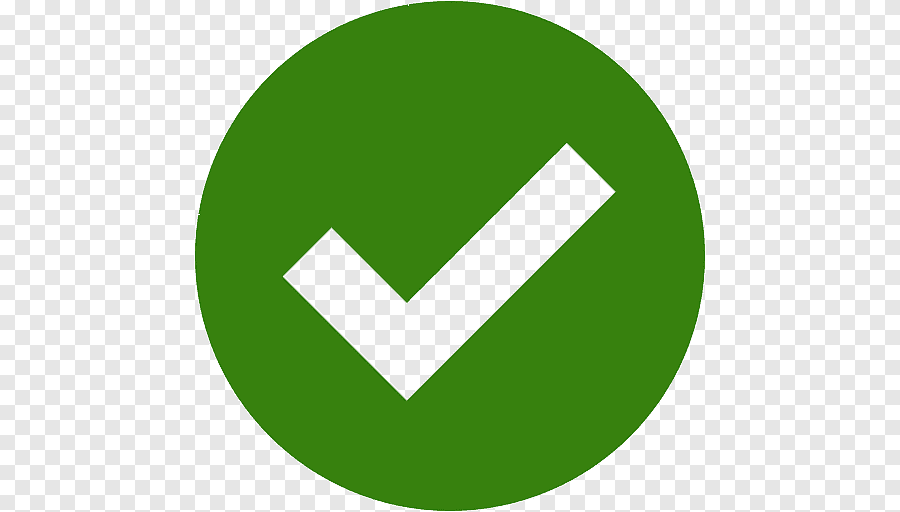
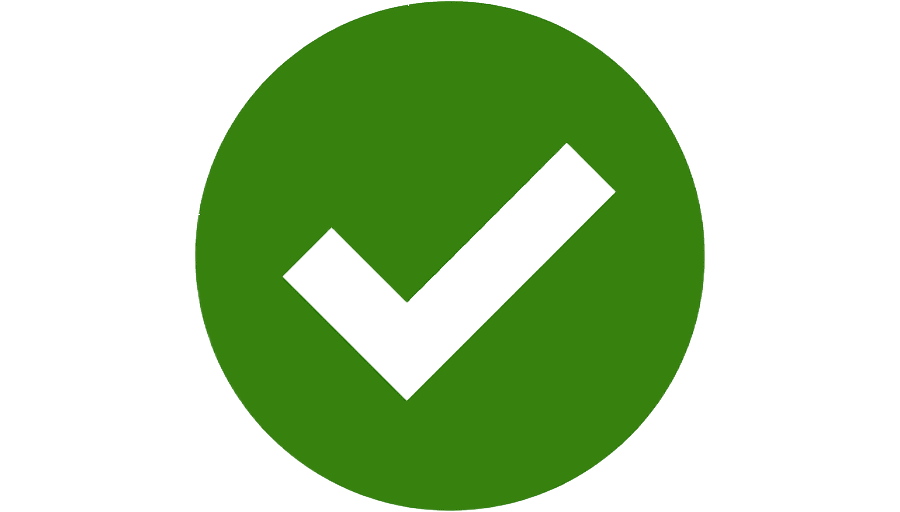
Changes

diff --git a/src/components/SwapInterface.tsx b/src/components/SwapInterface.tsx
@@ -23,7 +23,7 @@ import { ArrowUpDown, Wallet, Search, ChevronDown, Loader2 } from "lucide-react"
 import glieseLogo from "@/assets/gliese-logo.png";
 import verifiedBadge from "@/assets/verified-badge.svg";
 import externalLinkIcon from "@/assets/external-link.png";
-import checkmarkIcon from "@/assets/checkmark-icon.svg";
+import checkmarkIcon from "@/assets/checkmark-icon.png";
 
 import { PUBLIC_CONFIG } from "@/config/public";
 import { useYakQuote } from "@/hooks/useYakQuote";
@@ -806,7 +806,7 @@ const selectToken = (picked: string | TokenObj) => {
       // Show toast immediately when transaction is confirmed
       const toastTitle: React.ReactNode = (
         <div className="flex items-center gap-2 w-full pr-8">
-          <img src={checkmarkIcon} alt="Confirmed" className="w-5 h-5" />
+          <img src={checkmarkIcon} alt="Confirmed" className="w-6 h-6" />
           <span className="leading-none">Swap confirmed</span>
           <a
             href={`https://monad-testnet.socialscan.io/tx/${receipt.transactionHash}`}
